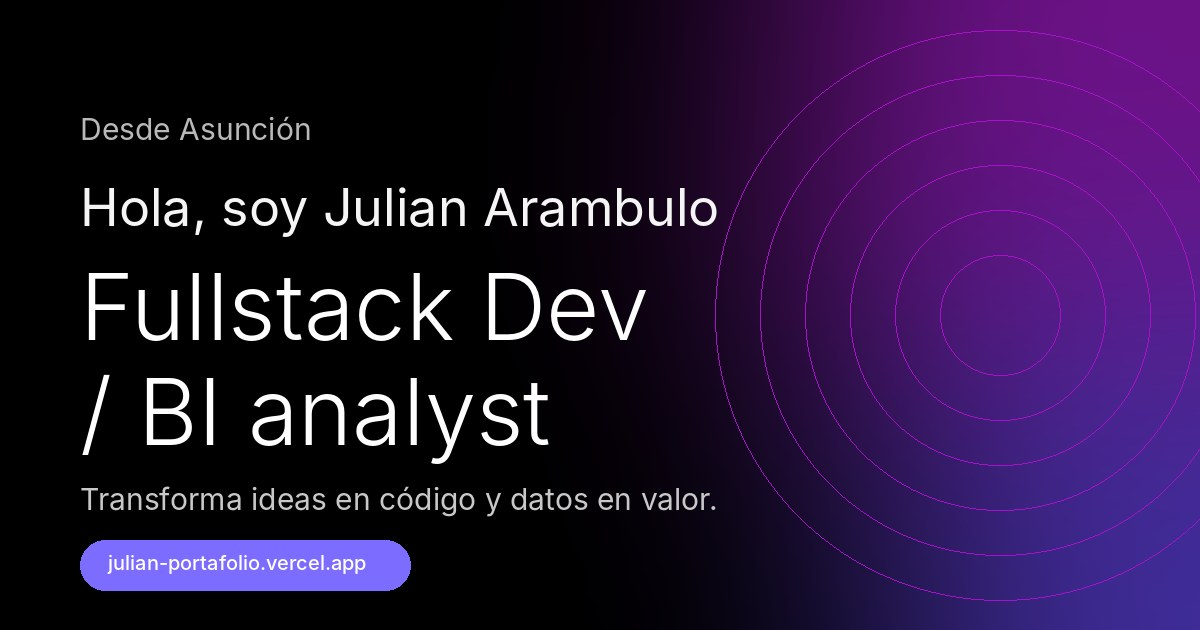
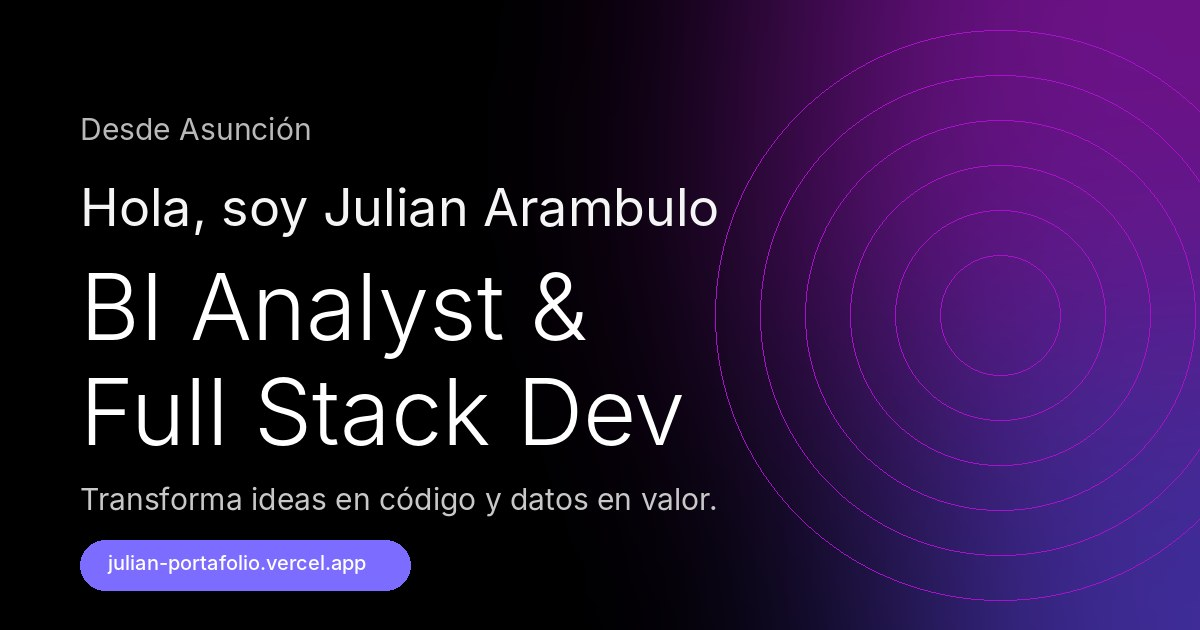
Íconos SVG locales y contenido alineado con el CV (#2)
* Usar SVG locales para los íconos del stack

Los íconos se cargaban desde CDNs externos y a veces no aparecían. Ahora
viven en public/icons/stack y se sirven desde el mismo sitio. También se
fija la versión de Vanta (antes @latest).

Claude-Session: https://claude.ai/code/session_01CH5ejUAeGVhMMLtcNttzvD

* Alinear la página con el CV

- Rol: BI Analyst & Full Stack Developer (inicio, título y vista previa)
- Sobre mí con el resumen del CV, logros concretos e idiomas
- Experiencia en ITTI S.A.E. con fechas y tareas del CV
- Certificación Oracle APEX y SQL; SQL, JavaScript y Oracle APEX en habilidades
- JavaScript y Git en el stack del inicio (sale Cursor para que entre en una fila)

Claude-Session: https://claude.ai/code/session_01CH5ejUAeGVhMMLtcNttzvD

---------

Changed region(s): [[0.0617, 0.6032, 0.5858, 0.754], [0.0617, 0.4222, 0.555, 0.573]]

diff --git a/src/data/site.ts b/src/data/site.ts
@@ -1,24 +1,25 @@
 export const site = {
 	name: 'Julian Arambulo',
 	location: 'Asunción',
-	roles: 'Fullstack Dev / BI analyst',
+	roles: 'BI Analyst & Full Stack Dev',
 	tagline: 'Transforma ideas en código y datos en valor.',
 	githubUrl: 'https://github.com/AlvaroTWM',
 	linkedinUrl: 'https://www.linkedin.com/in/alvaro-arambulo',
 	email: 'mailto:alvaroarambulo@gmail.com',
 	emailDisplay: 'alvaroarambulo@gmail.com',
 	cvUrl: '/julian-arambulo-cv.pdf',
-	title: 'Julian Arambulo — Fullstack Dev / BI analyst',
+	title: 'Julian Arambulo — BI Analyst & Full Stack Developer',
 };
 
 export const about = {
 	title: 'Sobre mí',
-	body: `Desarrollo aplicaciones web y analizo datos para que los equipos decidan con información clara, no con suposiciones.`,
+	body: `BI Analyst & Developer con 3 años de experiencia en los sectores bancario y retail. Me especializo en soluciones de inteligencia de negocio, automatización de procesos y aplicaciones orientadas al negocio, para que los equipos decidan con información clara y no con suposiciones.`,
 	highlights: [
-		'Productos web simples de mantener y escalar.',
-		'Dashboards y reportes útiles para negocio.',
-		'Traduzco necesidades del cliente en soluciones técnicas concretas.',
+		'Dashboards ejecutivos en QuickSight y Power BI para KPIs, reclamos y métricas operativas.',
+		'Automatizaciones con SQL, JavaScript y n8n: un proceso manual de 1 mes pasó a un solo clic.',
+		'Herramientas internas en React que integran APIs y múltiples fuentes de datos.',
 	],
+	languages: 'Español nativo · Portugués C1 · Inglés B1',
 };
 
 export const heroCta = {
@@ -33,17 +34,15 @@ export const contact = {
 };
 
 export const technologies = [
-	{ name: 'React', icon: 'https://cdn.simpleicons.org/react/61DAFB' },
-	{ name: 'Power BI', icon: 'https://upload.wikimedia.org/wikipedia/commons/c/cf/New_Power_BI_Logo.svg' },
-	{ name: 'TypeScript', icon: 'https://cdn.simpleicons.org/typescript/3178C6' },
-	{ name: 'Cursor', icon: 'https://cdn.simpleicons.org/cursor/FFFFFF' },
-	{ name: 'Docker', icon: 'https://cdn.simpleicons.org/docker/2496ED' },
-	{ name: 'Node.js', icon: 'https://cdn.simpleicons.org/nodedotjs/339933' },
-	{
-		name: 'Athena',
-		icon: 'https://cdn.jsdelivr.net/gh/devicons/devicon@latest/icons/amazonwebservices/amazonwebservices-plain-wordmark.svg',
-	},
-	{ name: 'Astro', icon: 'https://cdn.simpleicons.org/astro/FFFFFF' },
-	{ name: 'TailwindCSS', icon: 'https://cdn.simpleicons.org/tailwindcss/06B6D4' },
-	{ name: 'N8N', icon: 'https://cdn.simpleicons.org/n8n/FFFFFF' },
+	{ name: 'React', icon: '/icons/stack/react.svg' },
+	{ name: 'JavaScript', icon: '/icons/stack/javascript.svg' },
+	{ name: 'Power BI', icon: '/icons/stack/powerbi.svg' },
+	{ name: 'TypeScript', icon: '/icons/stack/typescript.svg' },
+	{ name: 'Docker', icon: '/icons/stack/docker.svg' },
+	{ name: 'Node.js', icon: '/icons/stack/nodedotjs.svg' },
+	{ name: 'Athena', icon: '/icons/stack/aws.svg' },
+	{ name: 'Astro', icon: '/icons/stack/astro.svg' },
+	{ name: 'TailwindCSS', icon: '/icons/stack/tailwindcss.svg' },
+	{ name: 'N8N', icon: '/icons/stack/n8n.svg' },
+	{ name: 'Git', icon: '/icons/stack/git.svg' },
 ] as const;

diff --git a/src/data/experience.ts b/src/data/experience.ts
@@ -12,18 +12,18 @@ export const experienceSection = {
 
 export const workExperience: TimelineItem[] = [
 	{
-		period: '2025-04 — Presente',
-		title: 'JR. BI Analyst',
-		organization: 'ITTI DIGITAL',
+		period: '2025-03 — Presente',
+		title: 'BI Analyst',
+		organization: 'ITTI S.A.E.',
 		description:
-			'Desarrollo de soluciones para el departamento de loyalty utilizando metodologías ágiles: aplicaciones web y dashboards.',
+			'Diseño e implemento soluciones de BI para banca y atención al cliente: dashboards ejecutivos en QuickSight para KPIs, reclamos y métricas operativas. Automaticé la generación y distribución de reportes con SQL, JavaScript y n8n, llevando un proceso manual de 1 mes a un solo clic. Construyo herramientas internas en React que integran APIs y múltiples fuentes de datos, con Git para el control de versiones.',
 	},
 	{
-		period: '2024-04 — 2025-04',
-		title: 'Help desk and Automation Analyst',
-		organization: 'ITTI DIGITAL',
+		period: '2024-04 — 2025-03',
+		title: 'Help Desk',
+		organization: 'ITTI S.A.E.',
 		description:
-			'Automatización de procesos internos y externos con N8N, chatbots y Active Directory para optimizar tiempos y soporte.',
+			'Soporte técnico de segundo nivel para aplicaciones y servicios del negocio. Documentación de servicios técnicos y trabajo con equipos de infraestructura en la resolución de problemas complejos. Automatización de procesos con n8n.',
 	},
 	{
 		period: '2023-04 — 2024-04',
@@ -37,7 +37,7 @@ export const workExperience: TimelineItem[] = [
 export const education: TimelineItem[] = [
 	{
 		period: '2025 — En curso',
-		title: 'Licenciatura en análisis de sistemas',
+		title: 'Licenciatura en Análisis de Sistemas',
 		organization: 'Universidad Americana',
 		description:
 			'Diseño y optimización de sistemas de información mediante relevamiento y análisis de procesos organizacionales.',
@@ -57,6 +57,12 @@ export const certifications: TimelineItem[] = [
 		title: 'PL-300 Microsoft Power BI Data Analyst',
 		organization: 'Microsoft',
 		description: 'Certificación oficial de analista de datos con Power BI.',
+	},
+	{
+		period: 'Certificación',
+		title: 'Oracle APEX y SQL',
+		organization: 'Oracle',
+		description: 'Desarrollo de aplicaciones low-code sobre Oracle Database y consultas SQL.',
 	},
 ];
 

diff --git a/src/data/skills.ts b/src/data/skills.ts
@@ -6,14 +6,14 @@ export const skillsSection = {
 export const skillCategories = [
 	{
 		title: 'Frontend & Backend',
-		items: ['React', 'TypeScript', 'Node.js', 'Astro', 'TailwindCSS',],
+		items: ['React', 'JavaScript', 'TypeScript', 'Node.js', 'Astro', 'TailwindCSS'],
 	},
 	{
 		title: 'Data & Bases de Datos',
-		items: ['Power BI', 'PL/SQL', 'Amazon Athena', 'Amazon Aurora', 'Amazon Quicksight'],
+		items: ['SQL', 'PL/SQL', 'Power BI', 'Amazon QuickSight', 'Amazon Athena', 'Amazon Aurora'],
 	},
 	{
 		title: 'DevOps & Herramientas',
-		items: ['Docker', 'Git', 'Cursor', 'N8N', 'Postman',],
+		items: ['n8n', 'Git', 'Docker', 'Oracle APEX', 'Cursor', 'Postman'],
 	},
 ] as const;

diff --git a/src/styles/global.css b/src/styles/global.css
@@ -1156,3 +1156,32 @@ body {
 		transform: none;
 	}
 }
+
+.about-languages {
+	margin: 1.5rem 0 0;
+	font-size: 0.9375rem;
+	color: var(--text-muted);
+}
+
+.about-languages span {
+	margin-right: 0.5rem;
+	font-size: 0.75rem;
+	font-weight: 600;
+	letter-spacing: 0.06em;
+	text-transform: uppercase;
+	color: #b8adff;
+}
+
+.headline {
+	max-width: none;
+}
+
+.headline__line {
+	display: block;
+}
+
+@media (max-width: 480px) {
+	.headline {
+		font-size: clamp(2.6rem, 11vw, 3.5rem);
+	}
+}
